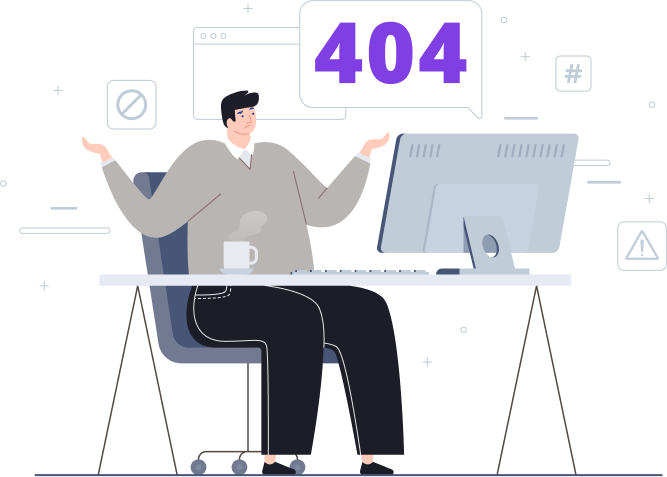
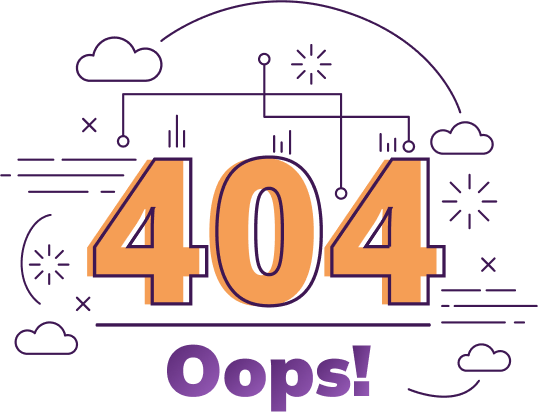
error page remapped

diff --git a/src/app/error.tsx b/src/app/error.tsx
@@ -16,21 +16,21 @@ const Error = ({
   }, [error]);
 
   return (
-    <div className="bg-[#FAFAFA] p-10 h-dvh">
-      <div className="bg-white shadow-sm p-6 md:p-16 h-full">
+    <div className="flex justify-center items-center bg-[url('/error-bg.png')] bg-no-repeat bg-left-bottom h-dvh">
+      <div>
         <img
           src="/404.png"
           alt="404"
-          className="mx-auto w-[667px] max-w-[90%]"
+          className="mx-auto w-[580px] max-w-[90%]"
         />
         <div className="text-black-100 text-center">
           <p className="mt-16 font-medium text-h3">
-            Oops! <span className="text-red-button"> {error.message} </span>
+            <span className="text-red-button"> {error.message} </span>
           </p>
           <p className="mt-4 font-medium text-p122">Something went wrong</p>
           <div className="mx-auto mt-12 w-[310px]">
             <LoaderButton
-              content={"Reset"}
+              content={"Go to Home"}
               variant="contained"
               onClick={reset}
             />

diff --git a/src/app/(dashboard)/layout.tsx b/src/app/(dashboard)/layout.tsx
@@ -17,6 +17,7 @@ import { setUser } from "@/store/slices/userSlice";
 import { validateSteps } from "@/store/slices/onboarding.slice";
 import { useDispatch } from "react-redux";
 import { Role } from "@/constants/roles";
+import { error } from "console";
 
 const DashboardLayout = ({ children }) => {
   const router = useRouter();
@@ -59,6 +60,8 @@ const DashboardLayout = ({ children }) => {
   if (!isAuthenticated) {
     return router.push("/login");
   }
+
+  throw {message: "Testing"};
 
   return (
     <>